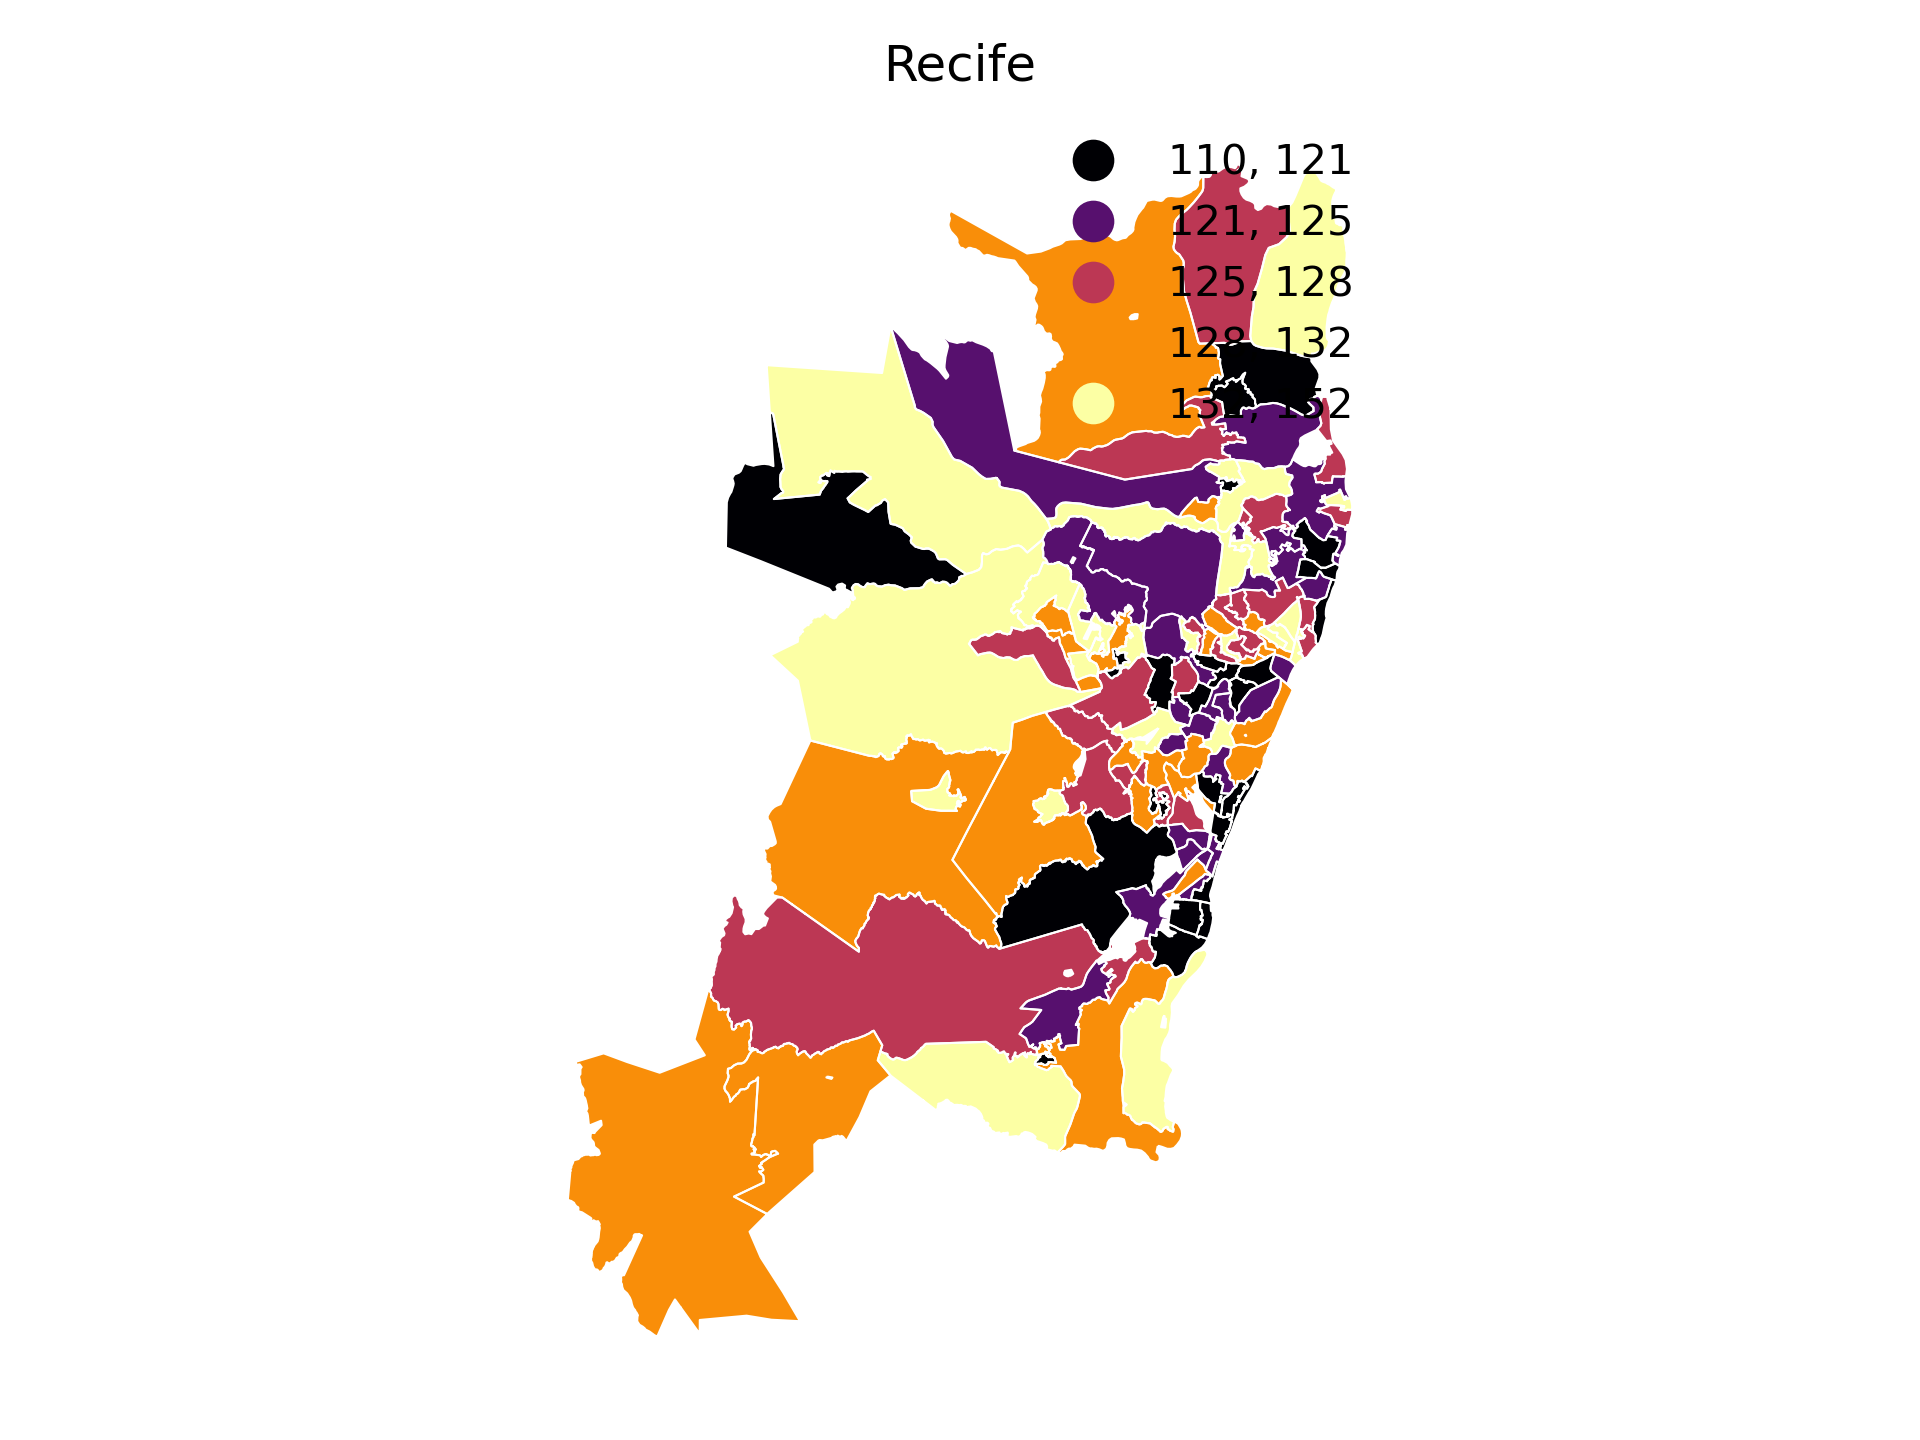
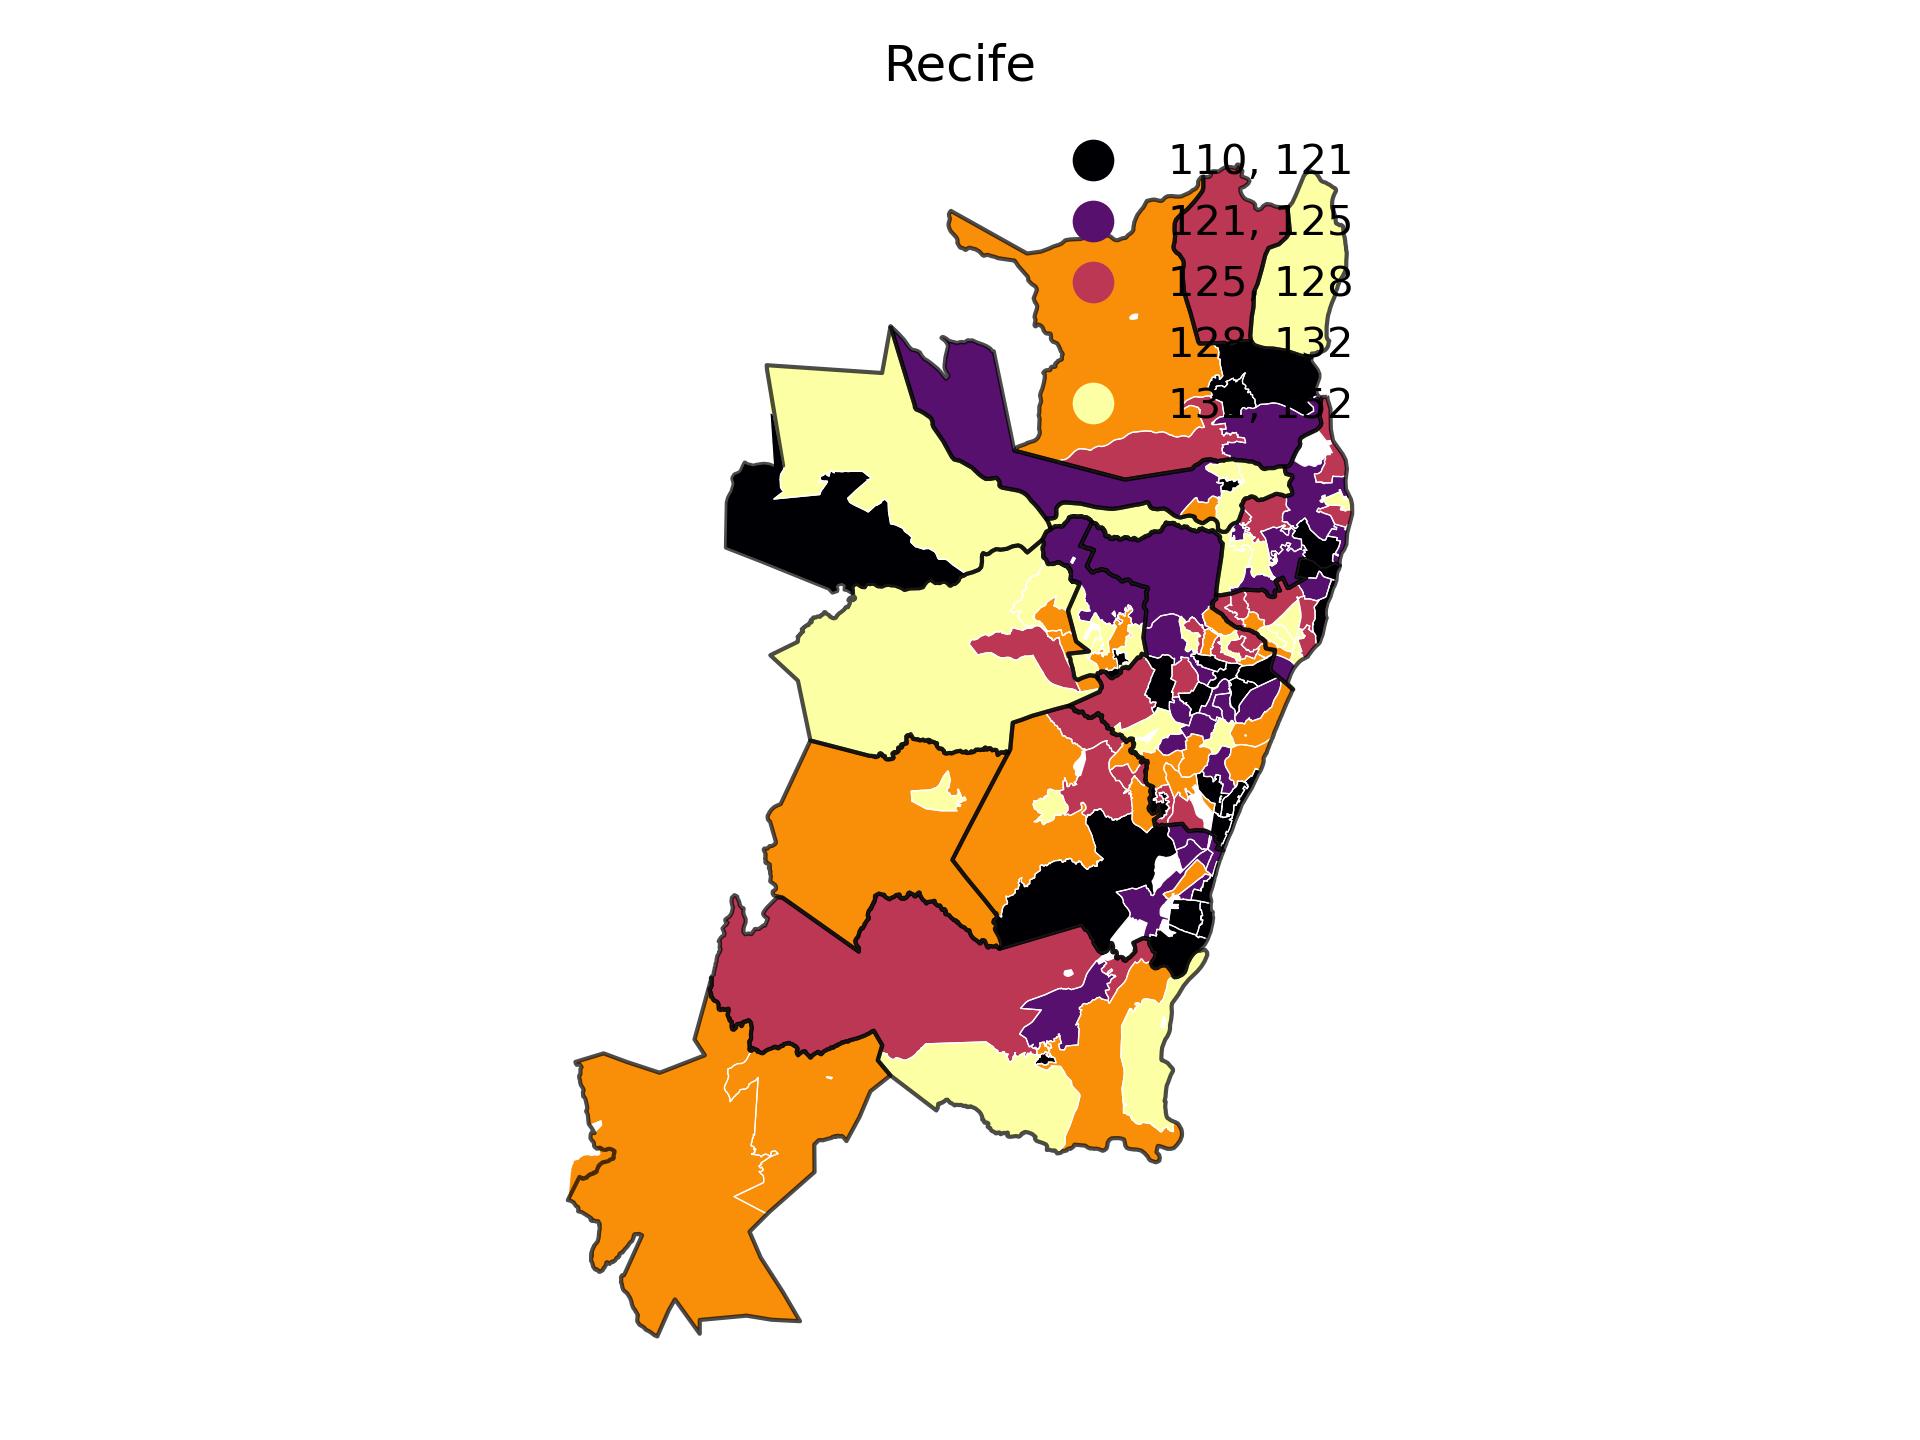
names still to go

diff --git a/VIDA2/plot_phase2.py b/VIDA2/plot_phase2.py
@@ -7,6 +7,8 @@ import matplotlib.pyplot as plt
 import geopandas as gpd
 import pandas as pd
 
+from matplotlib import cm
+
 
 names = {'BRASILIA': {'name': 'Brasília',
                       'code': '53'},
@@ -27,15 +29,17 @@ names = {'BRASILIA': {'name': 'Brasília',
 
 def plot_maps(shape, boundaries, col, leg=True, title='title'):
     fig, ax = plt.subplots()
+    cmap_reversed = cm.get_cmap('inferno_r')
     shape.plot(column=col,
                legend=leg,
                ax=ax,
                scheme='quantiles',
-               cmap='inferno',
+               cmap=cmap_reversed,
                # missing_kwds={'color': 'lightgrey'},
                legend_kwds={'fmt': '{:,.0f}', 'frameon': False}
                )
-    shape.boundary.plot(ax=ax, color='white', linewidth=.5, edgecolor='grey')
+    shape.boundary.plot(ax=ax, color='white', linewidth=.3, edgecolor='grey')
+    boundaries.boundary.plot(ax=ax, color='black', linewidth=1, edgecolor='grey', alpha=.7, label='')
     ax.set_title(title)
     ax.set_axis_off()
     plt.tight_layout()
@@ -53,7 +57,7 @@ def prepair_data(plot=False):
     for rm in names:
         shps = gpd.read_file(f"../../censo2010/data/areas/{names[rm]['code']}_all_muns.shp")
         if rm == 'BRASILIA':
-            shps.append(gpd.read_file(f"../../censo2010/data/areas/52_all_muns.shp"))
+            shps = shps.append(gpd.read_file(f"../../censo2010/data/areas/52_all_muns.shp"))
         for file in files:
             if rm in file:
                 # Read simulation data
@@ -61,7 +65,7 @@ def prepair_data(plot=False):
                 data.to_excel(f'data/{rm}.xlsx')
                 # Merge data with shapefile
                 shape = pd.merge(shps, data)
-                shape.to_file(f'data/{rm}.shp')
+                # shape.to_file(f'data/{rm}.shp')
                 shapes.append(shape)
                 # Municipalities boundaries
                 muns = data.AREAP.astype(str).str[:7]
